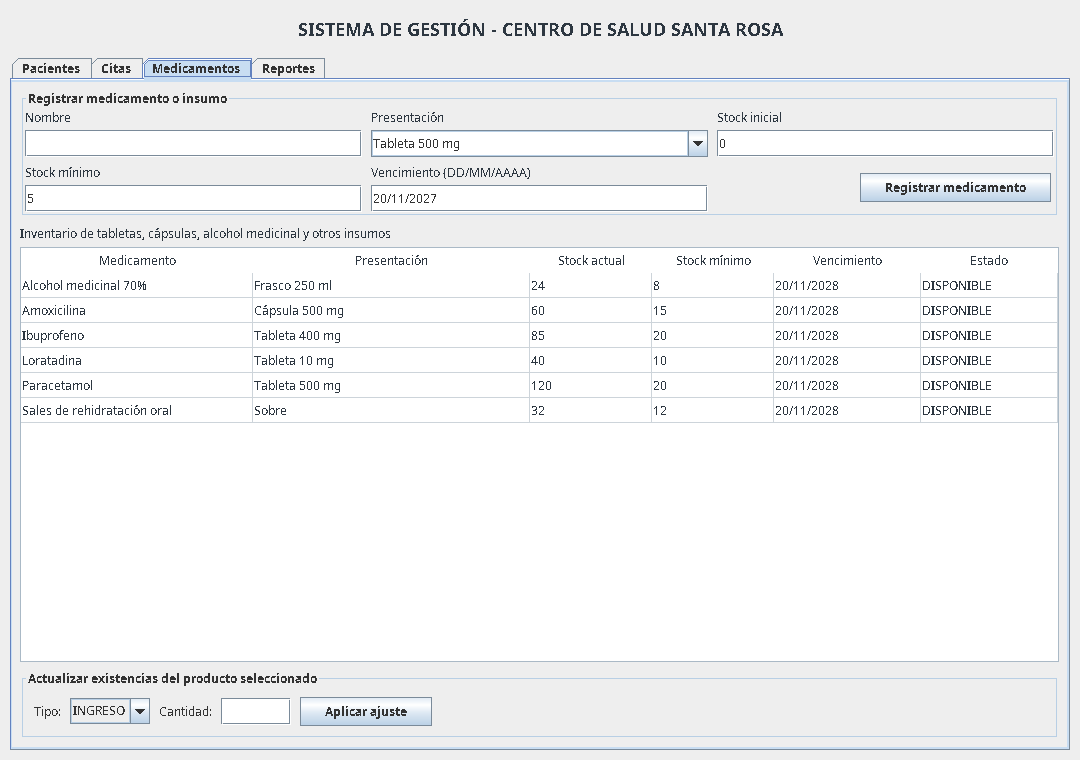
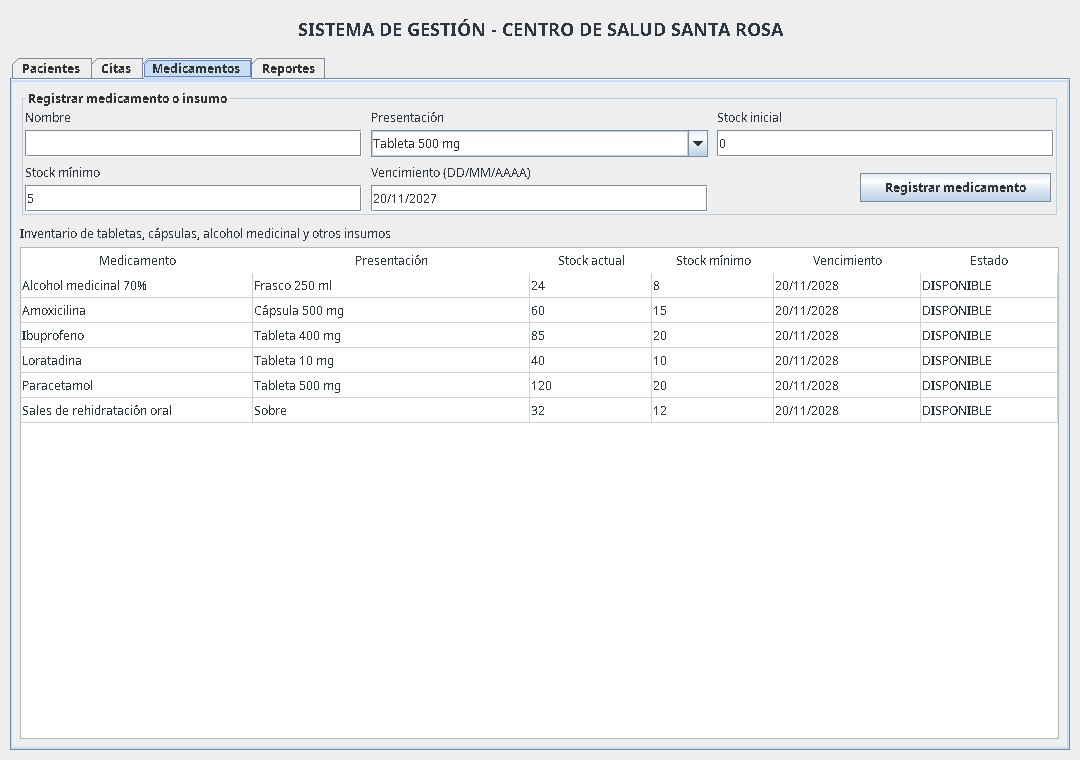
Simplifica pacientes inventario y comprobante para exposicion

Changed region(s): [[0.0306, 0.8776, 0.3972, 0.9684]]

diff --git a/src/main/java/pe/santarosa/ui/PanelMedicamentos.java b/src/main/java/pe/santarosa/ui/PanelMedicamentos.java
@@ -1,7 +1,6 @@
 package pe.santarosa.ui;
 
 import pe.santarosa.model.Medicamento;
-import pe.santarosa.model.TipoMovimiento;
 import pe.santarosa.service.ServicioSalud;
 
 import javax.swing.*;
@@ -27,8 +26,6 @@ public class PanelMedicamentos extends JPanel {
     private final JTextField stock = EstilosUI.campo(6);
     private final JTextField minimo = EstilosUI.campo(6);
     private final JTextField vencimiento = EstilosUI.campo(10);
-    private final JComboBox<TipoMovimiento> tipo = new JComboBox<>(TipoMovimiento.values());
-    private final JTextField cantidad = EstilosUI.campo(6);
     // La primera columna conserva el identificador interno, pero no se muestra en pantalla.
     private final DefaultTableModel modelo = new DefaultTableModel(new Object[]{
             "ID interno", "Medicamento", "Presentación", "Stock actual", "Stock mínimo", "Vencimiento", "Estado"}, 0) {
@@ -79,17 +76,6 @@ public class PanelMedicamentos extends JPanel {
         lista.add(EstilosUI.scroll(tabla), BorderLayout.CENTER);
         add(lista, BorderLayout.CENTER);
 
-        JPanel ajustes = new JPanel(new FlowLayout(FlowLayout.LEFT, 9, 8));
-        ajustes.setBackground(EstilosUI.FONDO);
-        ajustes.setBorder(BorderFactory.createTitledBorder("Actualizar existencias del producto seleccionado"));
-        ajustes.add(new JLabel("Tipo:"));
-        ajustes.add(tipo);
-        ajustes.add(new JLabel("Cantidad:"));
-        ajustes.add(cantidad);
-        JButton aplicar = EstilosUI.boton("Aplicar ajuste");
-        aplicar.addActionListener(e -> ajustar());
-        ajustes.add(aplicar);
-        add(ajustes, BorderLayout.SOUTH);
         refrescar();
     }
 
@@ -107,29 +93,6 @@ public class PanelMedicamentos extends JPanel {
             EstilosUI.aviso(this, "El stock inicial y el mínimo deben ser números enteros.", true);
         } catch (DateTimeParseException ex) {
             EstilosUI.aviso(this, "Use el formato de vencimiento DD/MM/AAAA.", true);
-        } catch (IllegalArgumentException | IllegalStateException ex) {
-            EstilosUI.aviso(this, ex.getMessage(), true);
-        }
-    }
-
-    private void ajustar() {
-        int fila = tabla.getSelectedRow();
-        if (fila < 0) {
-            EstilosUI.aviso(this, "Seleccione un medicamento de la tabla.", true);
-            return;
-        }
-        try {
-            int filaModelo = tabla.convertRowIndexToModel(fila);
-            String idInterno = String.valueOf(modelo.getValueAt(filaModelo, 0));
-            Medicamento medicamento = servicio.obtenerMedicamento(idInterno);
-            servicio.ajustarInventario(medicamento.getId(), (TipoMovimiento) tipo.getSelectedItem(),
-                    Integer.parseInt(cantidad.getText().trim()));
-            cantidad.setText("");
-            refrescar();
-            alCambiar.run();
-            EstilosUI.aviso(this, "Las existencias se actualizaron correctamente.", false);
-        } catch (NumberFormatException ex) {
-            EstilosUI.aviso(this, "La cantidad debe ser un número entero.", true);
         } catch (IllegalArgumentException | IllegalStateException ex) {
             EstilosUI.aviso(this, ex.getMessage(), true);
         }

diff --git a/src/main/java/pe/santarosa/ui/PanelPacientes.java b/src/main/java/pe/santarosa/ui/PanelPacientes.java
@@ -17,10 +17,9 @@ public class PanelPacientes extends JPanel {
     private final JTextField nombres = EstilosUI.campo(23);
     private final JTextField dni = EstilosUI.campo(9);
     private final JTextField edad = EstilosUI.campo(4);
-    private final JTextField telefono = EstilosUI.campo(11);
     private final JTextField buscar = EstilosUI.campo(22);
     private final DefaultTableModel modelo = new DefaultTableModel(
-            new Object[]{"Nombre y apellidos", "Documento", "Edad", "Teléfono"}, 0) {
+            new Object[]{"Nombre y apellidos", "Documento", "Edad"}, 0) {
         @Override public boolean isCellEditable(int fila, int columna) { return false; }
     };
     private final JTable tabla = new JTable(modelo);
@@ -45,8 +44,6 @@ public class PanelPacientes extends JPanel {
         formulario.add(dni);
         formulario.add(new JLabel("Edad:"));
         formulario.add(edad);
-        formulario.add(new JLabel("Teléfono:"));
-        formulario.add(telefono);
         JButton registrar = EstilosUI.boton("Registrar paciente");
         registrar.addActionListener(e -> registrar());
         formulario.add(registrar);
@@ -74,11 +71,11 @@ public class PanelPacientes extends JPanel {
     private void registrar() {
         try {
             int anios = Integer.parseInt(edad.getText().trim());
-            servicio.registrarPaciente(nombres.getText(), anios, dni.getText().trim(), telefono.getText().trim());
+            servicio.registrarPaciente(nombres.getText(), anios, dni.getText().trim(), "");
             limpiarFormulario();
             refrescar();
             alCambiar.run();
-            EstilosUI.aviso(this, "Paciente registrado correctamente. El DNI se conserva protegido y se muestra parcialmente oculto.", false);
+            EstilosUI.aviso(this, "Paciente registrado", false);
         } catch (NumberFormatException ex) {
             EstilosUI.aviso(this, "La edad debe ser un número entero.", true);
         } catch (IllegalArgumentException | IllegalStateException ex) {
@@ -90,7 +87,6 @@ public class PanelPacientes extends JPanel {
         nombres.setText("");
         dni.setText("");
         edad.setText("");
-        telefono.setText("");
         nombres.requestFocusInWindow();
     }
 
@@ -98,7 +94,7 @@ public class PanelPacientes extends JPanel {
         modelo.setRowCount(0);
         for (Paciente paciente : servicio.buscarPacientes(buscar.getText())) {
             modelo.addRow(new Object[]{paciente.getNombres(), paciente.getDocumentoEnmascarado(),
-                    paciente.getEdad(), paciente.getTelefonoEnmascarado()});
+                    paciente.getEdad()});
         }
     }
 }

diff --git a/src/main/java/pe/santarosa/ui/PanelReportes.java b/src/main/java/pe/santarosa/ui/PanelReportes.java
@@ -136,7 +136,6 @@ public class PanelReportes extends JPanel {
         texto.append("Nombre y apellidos : ").append(paciente.getNombres()).append('\n');
         texto.append("Documento          : ").append(paciente.getDocumentoEnmascarado()).append('\n');
         texto.append("Edad               : ").append(paciente.getEdad()).append(" años\n");
-        texto.append("Teléfono           : ").append(paciente.getTelefonoEnmascarado()).append('\n');
         texto.append("--------------------------------------------------------------------\n");
         texto.append("DETALLE DE LA CITA\n");
         texto.append("Profesional        : ").append(cita.getProfesional()).append('\n');
@@ -154,11 +153,10 @@ public class PanelReportes extends JPanel {
             texto.append("Fecha de atención  : ").append(atencion.getFecha().format(DateTimeFormatter.ofPattern("dd/MM/yyyy HH:mm"))).append('\n');
         }
         texto.append("--------------------------------------------------------------------\n");
-        texto.append("Este documento acredita el registro de la cita en el sistema.\n");
-        texto.append("No constituye comprobante tributario ni receta médica.\n");
-        texto.append("Conserve este documento y proteja la información del paciente.\n");
+        texto.append("\n¡Gracias por confiar en nuestro equipo de salud!\n");
+        texto.append("Le deseamos bienestar y una pronta mejoría.\n");
+        texto.append("Su salud es nuestra mayor prioridad.\n");
         texto.append(separador).append('\n');
-        texto.append("                 Gracias por utilizar nuestro servicio\n");
         texto.append(separador).append('\n');
         return texto.toString();
     }

diff --git a/README.md b/README.md
@@ -10,10 +10,10 @@ Prototipo académico de escritorio para organizar pacientes, citas, atenciones, 
 
 - **Pacientes:** registro de nombres y apellidos, DNI, edad y teléfono; búsqueda por nombre o documento enmascarado. En las tablas nunca se muestra el DNI completo.
 - **Citas:** selección del paciente y profesional, fecha, hora en formato AM/PM y motivo mediante una lista desplegable. La cita nueva aparece inmediatamente en la agenda. Se puede buscar, cancelar o registrar la atención.
-- **Medicamentos:** registro de tabletas, cápsulas y alcohol medicinal; la pantalla muestra presentación, existencias, stock mínimo, vencimiento y estado. Permite ajustar ingresos y salidas sin mostrar código, lote, precio ni detalle del movimiento.
+- **Medicamentos:** registro de tabletas, cápsulas y alcohol medicinal; la pantalla muestra presentación, existencias, stock mínimo, vencimiento y estado. La pantalla es solo de consulta de existencias: no incluye ventas, movimientos ni controles para modificar el stock.
 - **Reportes:** comprobante de cita con presentación similar a un recibo, opción de imprimir o exportar a TXT, y resumen estadístico sin nombres ni documentos de pacientes.
 
-El comprobante es constancia interna del registro de cita; no es una factura tributaria ni una receta médica. El inventario permite llevar existencias, pero no recomienda ni prescribe medicamentos. Al iniciar por primera vez se cargan registros de demostración con nombres, documentos, teléfonos, citas y existencias ficticias.
+El comprobante es constancia interna del registro de cita; no es una factura tributaria ni una receta médica. El inventario permite llevar existencias, pero no recomienda ni prescribe medicamentos. Al iniciar por primera vez se cargan registros de demostración con nombres, documentos, citas y existencias ficticias. El formulario de pacientes no solicita teléfono.
 
 ## Abrir y ejecutar en Apache NetBeans
 

diff --git a/docs/redisenio_interfaz.md b/docs/redisenio_interfaz.md
@@ -4,9 +4,12 @@ La ventana se reorganizó con `JTabbedPane` para conservar el patrón de navegac
 
 - Pacientes: campos alineados para nombres y apellidos, DNI, edad y teléfono; búsqueda y tabla debajo del formulario.
 - Citas: formulario amplio con paciente, profesional, fecha, hora AM/PM y motivos desplegables; tabla filtrable con las citas registradas.
-- Medicamentos: formulario simplificado con nombre, presentación, stock inicial, stock mínimo y vencimiento. La tabla muestra medicamento, presentación, existencias, mínimo, vencimiento y estado. No se muestran código, lote, precio ni detalle del movimiento; los ajustes se realizan con tipo y cantidad.
+- Medicamentos: formulario simplificado con nombre, presentación, stock inicial, stock mínimo y vencimiento. La tabla muestra medicamento, presentación, existencias, mínimo, vencimiento y estado. No se muestran código, lote, precio ni detalle del movimiento. Se retiró el panel de movimientos y no existen ventas ni selección de productos para modificar existencias; el módulo se presenta únicamente como consulta del inventario.
 - Reportes: vista previa de un comprobante de cita, impresión y exportación TXT; una segunda pestaña presenta indicadores agregados.
 
 Se priorizó mantener los controles en el área principal, ampliar los campos de selección y usar una paleta clara similar a la referencia visual.
 
 La ventana no incluye un pie con textos de sistema local o avisos de datos. La aplicación carga registros sintéticos al iniciar por primera vez para que los módulos tengan contenido durante la exposición.
+
+- Pacientes: se eliminó el campo y la columna de teléfono. Al completar un registro correctamente, el único mensaje de confirmación es «Paciente registrado».
+- Comprobante: se retiró el texto formal anterior y se reemplazó por un agradecimiento cercano al paciente.

diff --git a/docs/inventario_demo.md b/docs/inventario_demo.md
@@ -1,6 +1,6 @@
 # Inventario ficticio para exposición
 
-Al iniciar por primera vez, el sistema agrega productos de muestra si el inventario está vacío. Los nombres y cantidades son ficticios y permiten mostrar la tabla, los estados de existencias y los controles de actualización.
+Al iniciar por primera vez, el sistema agrega productos de muestra si el inventario está vacío. Los nombres y cantidades son ficticios y permiten mostrar la tabla y los estados de existencias durante la exposición.
 
 | Medicamento o insumo | Presentación | Stock inicial | Mínimo |
 |---|---|---:|---:|
@@ -11,6 +11,6 @@ Al iniciar por primera vez, el sistema agrega productos de muestra si el inventa
 | Sales de rehidratación oral | Sobre | 32 | 12 |
 | Alcohol medicinal 70% | Frasco 250 ml | 24 | 8 |
 
-La interfaz de exposición no solicita lote, precio ni detalle de movimiento. Para los ajustes de existencias solo se elige tipo (ingreso o salida) y cantidad. Los productos no constituyen una lista de prescripción ni recomendación de tratamientos.
+La interfaz de exposición no solicita lote, precio ni detalle de movimiento. La pantalla no incluye movimientos, ventas ni ajustes de existencias; los productos se muestran únicamente como inventario de consulta. Los productos no constituyen una lista de prescripción ni recomendación de tratamientos.
 
 En una instalación sin registros de pacientes también se crea un paciente y una cita sintéticos para que la agenda y los reportes puedan demostrarse desde el primer inicio.

diff --git a/docs/requisitos_sistema.md b/docs/requisitos_sistema.md
@@ -11,7 +11,7 @@
 7. Consultar y filtrar la agenda; cancelar una cita programada.
 8. Registrar una atención desde una cita y actualizar su estado.
 9. Registrar tabletas, cápsulas, alcohol medicinal y otros insumos con presentación, vencimiento y existencias. La interfaz no muestra códigos internos, lotes ni precios.
-10. Actualizar las existencias mediante ingresos y salidas, sin permitir stock negativo y sin solicitar un detalle libre del movimiento.
+10. Consultar el inventario de medicamentos e insumos con sus existencias, mínimo, vencimiento y estado, sin ventas ni movimientos desde la interfaz de exposición.
 11. Generar comprobantes de cita imprimibles y exportables, y reportes estadísticos agregados.
 
 ## Restricciones de diseño
@@ -26,6 +26,6 @@
 
 - Un paciente válido se registra y se muestra en la tabla con el DNI enmascarado; un DNI duplicado se rechaza.
 - Una cita válida se agrega inmediatamente a la agenda con fecha y hora legibles en formato AM/PM; se rechaza un cruce de horario del profesional.
-- Un movimiento de inventario actualiza el stock; el sistema bloquea una salida mayor a las existencias disponibles.
+- El módulo de medicamentos se limita a mostrar el inventario de demostración; no procesa ventas ni movimientos.
 - El comprobante se puede previsualizar, imprimir y exportar sin mostrar el DNI completo.
 - Las pruebas automatizadas finalizan sin fallos al ejecutar `mvn test`.

diff --git a/docs/decisiones_diseno.md b/docs/decisiones_diseno.md
@@ -2,7 +2,7 @@
 
 ## Caso aplicado y alcance
 
-El prototipo representa un establecimiento de salud que necesita organizar registros de pacientes, citas, atenciones y existencias de medicamentos. La exposición utiliza únicamente nombres, documentos, teléfonos, citas e inventario ficticios. La interfaz de escritorio divide el trabajo en pestañas, mantiene los formularios visibles y presenta la agenda y los reportes en tablas o comprobantes legibles. El alcance es académico y local; no reemplaza una historia clínica institucional.
+El prototipo representa un establecimiento de salud que necesita organizar registros de pacientes, citas, atenciones y existencias de medicamentos. La exposición utiliza únicamente nombres, documentos, citas e inventario ficticios. El formulario visible de pacientes no solicita teléfono. La interfaz de escritorio divide el trabajo en pestañas, mantiene los formularios visibles y presenta la agenda y los reportes en tablas o comprobantes legibles. El alcance es académico y local; no reemplaza una historia clínica institucional.
 
 ## Paradigmas de programación
 

diff --git a/docs/historial_commits.md b/docs/historial_commits.md
@@ -26,3 +26,5 @@ git log --oneline
 | 16 | `Agrega guía para publicar el proyecto en GitHub` | Explica cómo crear el repositorio remoto y subir la rama `main` conservando el historial. |
 
 **Importante:** los commits están guardados en el repositorio local del ZIP. Para que también aparezcan en GitHub, el proyecto debe conectarse al repositorio remoto correspondiente y ejecutar `git push`; esta copia no se ha publicado en GitHub.
+
+| 17 | `Simplifica pacientes inventario y comprobante para exposicion` | Elimina teléfono visible, panel de movimientos y texto formal del comprobante; actualiza capturas y documentación. |
